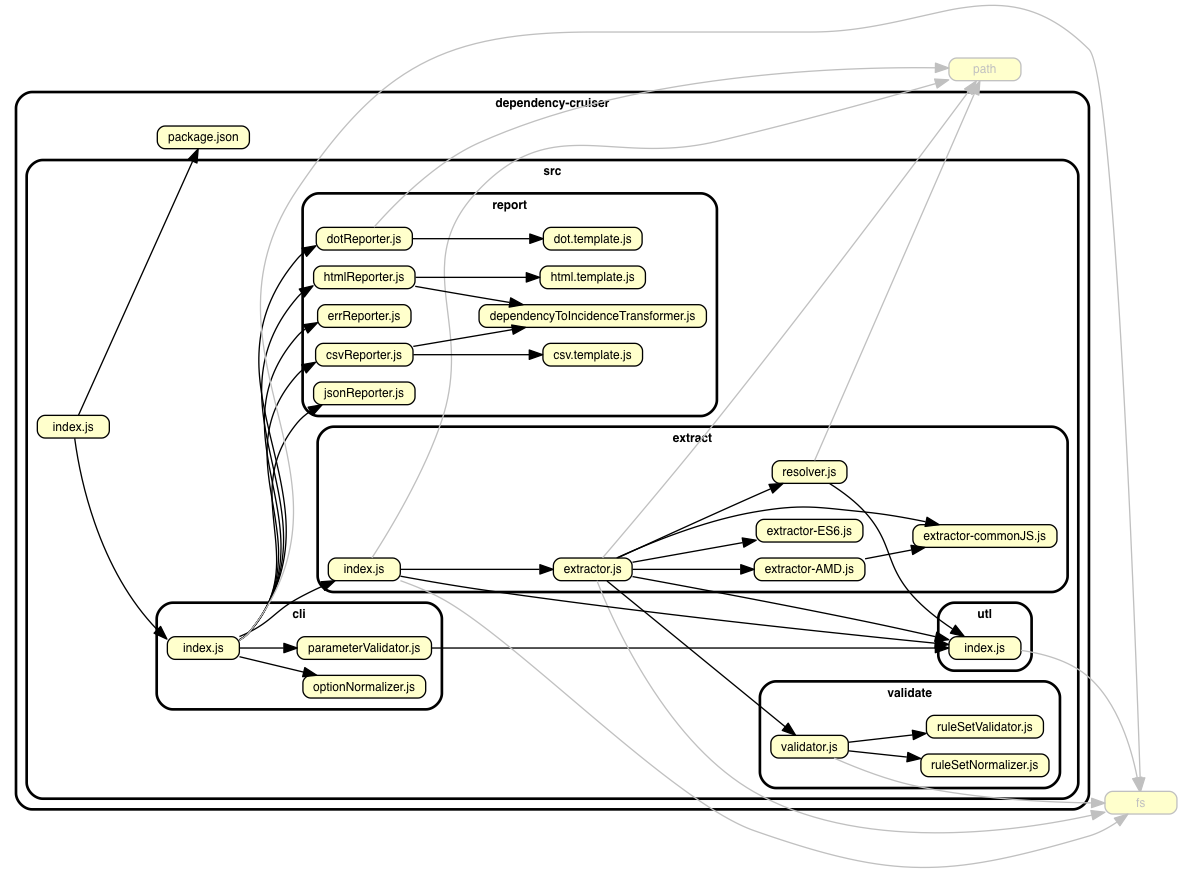
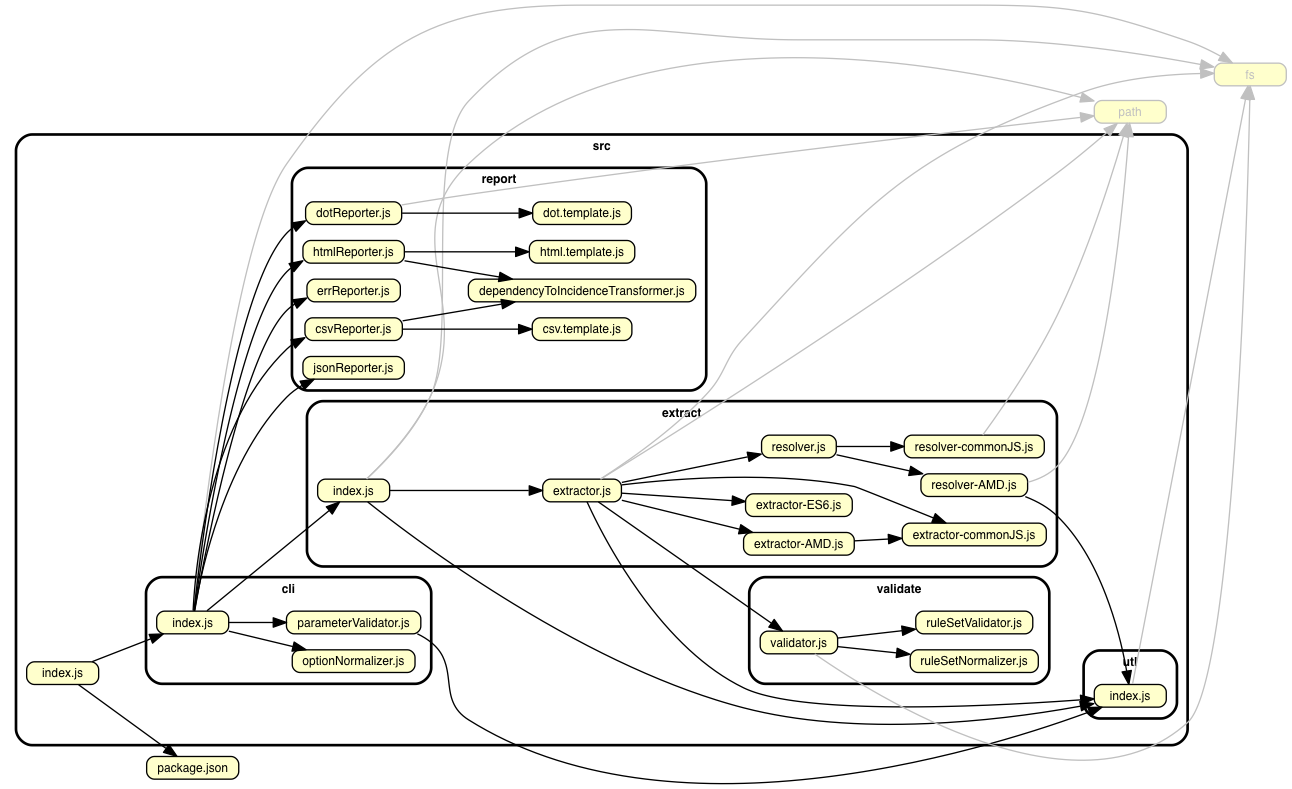
:wrench: splits the resolver module in per-module-system modules

diff --git a/src/extract/resolver.js b/src/extract/resolver.js
@@ -1,57 +1,10 @@
 "use strict";
 
-const path    = require('path');
-const _       = require('lodash');
-const resolve = require('resolve');
-const utl     = require('../utl');
+const _                = require('lodash');
+const resolveAMDModule = require('./resolver-AMD');
+const resolveCJSModule = require('./resolver-commonJS');
 
 const isRelativeModuleName = pString => pString.startsWith(".");
-
-/*
- * resolves both CommonJS and ES6
- */
-function resolveCJSModule(pModuleName, pBaseDir, pFileDir) {
-    let lRetval = {
-        resolved        : pModuleName,
-        coreModule      : false,
-        followable      : false,
-        couldNotResolve : false
-    };
-
-    if (resolve.isCore(pModuleName)){
-        lRetval.coreModule = true;
-    } else {
-        try {
-            lRetval.resolved = path.relative(
-                pBaseDir,
-                resolve.sync(pModuleName, {basedir: pFileDir})
-            );
-            lRetval.followable = (path.extname(lRetval.resolved) !== ".json");
-        } catch (e) {
-            lRetval.couldNotResolve = true;
-        }
-    }
-    return lRetval;
-}
-
-function resolveAMDModule(pModuleName, pBaseDir, pFileDir) {
-    // lookups:
-    // - [x] could be relative in the end (implemented)
-    // - [ ] require.config kerfuffle (command line, html, file, ...)
-    // - [ ] maybe use mrjoelkemp/module-lookup-amd ?
-    // - [ ] funky plugins (json!wappie, screeching-cat!saberttooth)
-    const lProbablePath = path.relative(
-        pBaseDir,
-        path.join(pFileDir, `${pModuleName}.js`)
-    );
-
-    return {
-        resolved: utl.fileExists(lProbablePath) ? lProbablePath : pModuleName,
-        coreModule: Boolean(resolve.isCore(pModuleName)),
-        followable: utl.fileExists(lProbablePath),
-        couldNotResolve: !Boolean(resolve.isCore(pModuleName)) && !utl.fileExists(lProbablePath)
-    };
-}
 
 module.exports = (pDependency, pBaseDir, pFileDir) => {
     if (isRelativeModuleName(pDependency.moduleName)){

diff --git a/src/extract/resolver-AMD.js b/src/extract/resolver-AMD.js
@@ -1,0 +1,27 @@
+"use strict";
+
+const path    = require('path');
+const resolve = require('resolve');
+const utl     = require('../utl');
+
+function resolveAMDModule(pModuleName, pBaseDir, pFileDir) {
+    // lookups:
+    // - [x] could be relative in the end (implemented)
+    // - [ ] require.config kerfuffle (command line, html, file, ...)
+    // - [ ] maybe use mrjoelkemp/module-lookup-amd ?
+    // - [ ] or https://github.com/jaredhanson/amd-resolve ?
+    // - [ ] funky plugins (json!wappie, ./screeching-cat!sabertooth)
+    const lProbablePath = path.relative(
+        pBaseDir,
+        path.join(pFileDir, `${pModuleName}.js`)
+    );
+
+    return {
+        resolved: utl.fileExists(lProbablePath) ? lProbablePath : pModuleName,
+        coreModule: Boolean(resolve.isCore(pModuleName)),
+        followable: utl.fileExists(lProbablePath),
+        couldNotResolve: !Boolean(resolve.isCore(pModuleName)) && !utl.fileExists(lProbablePath)
+    };
+}
+
+module.exports = resolveAMDModule;

diff --git a/src/extract/resolver-commonJS.js b/src/extract/resolver-commonJS.js
@@ -1,0 +1,33 @@
+"use strict";
+
+const path    = require('path');
+const resolve = require('resolve');
+
+/*
+ * resolves both CommonJS and ES6
+ */
+function resolveCJSModule(pModuleName, pBaseDir, pFileDir) {
+    let lRetval = {
+        resolved        : pModuleName,
+        coreModule      : false,
+        followable      : false,
+        couldNotResolve : false
+    };
+
+    if (resolve.isCore(pModuleName)){
+        lRetval.coreModule = true;
+    } else {
+        try {
+            lRetval.resolved = path.relative(
+                pBaseDir,
+                resolve.sync(pModuleName, {basedir: pFileDir})
+            );
+            lRetval.followable = (path.extname(lRetval.resolved) !== ".json");
+        } catch (e) {
+            lRetval.couldNotResolve = true;
+        }
+    }
+    return lRetval;
+}
+
+module.exports = resolveCJSModule;
